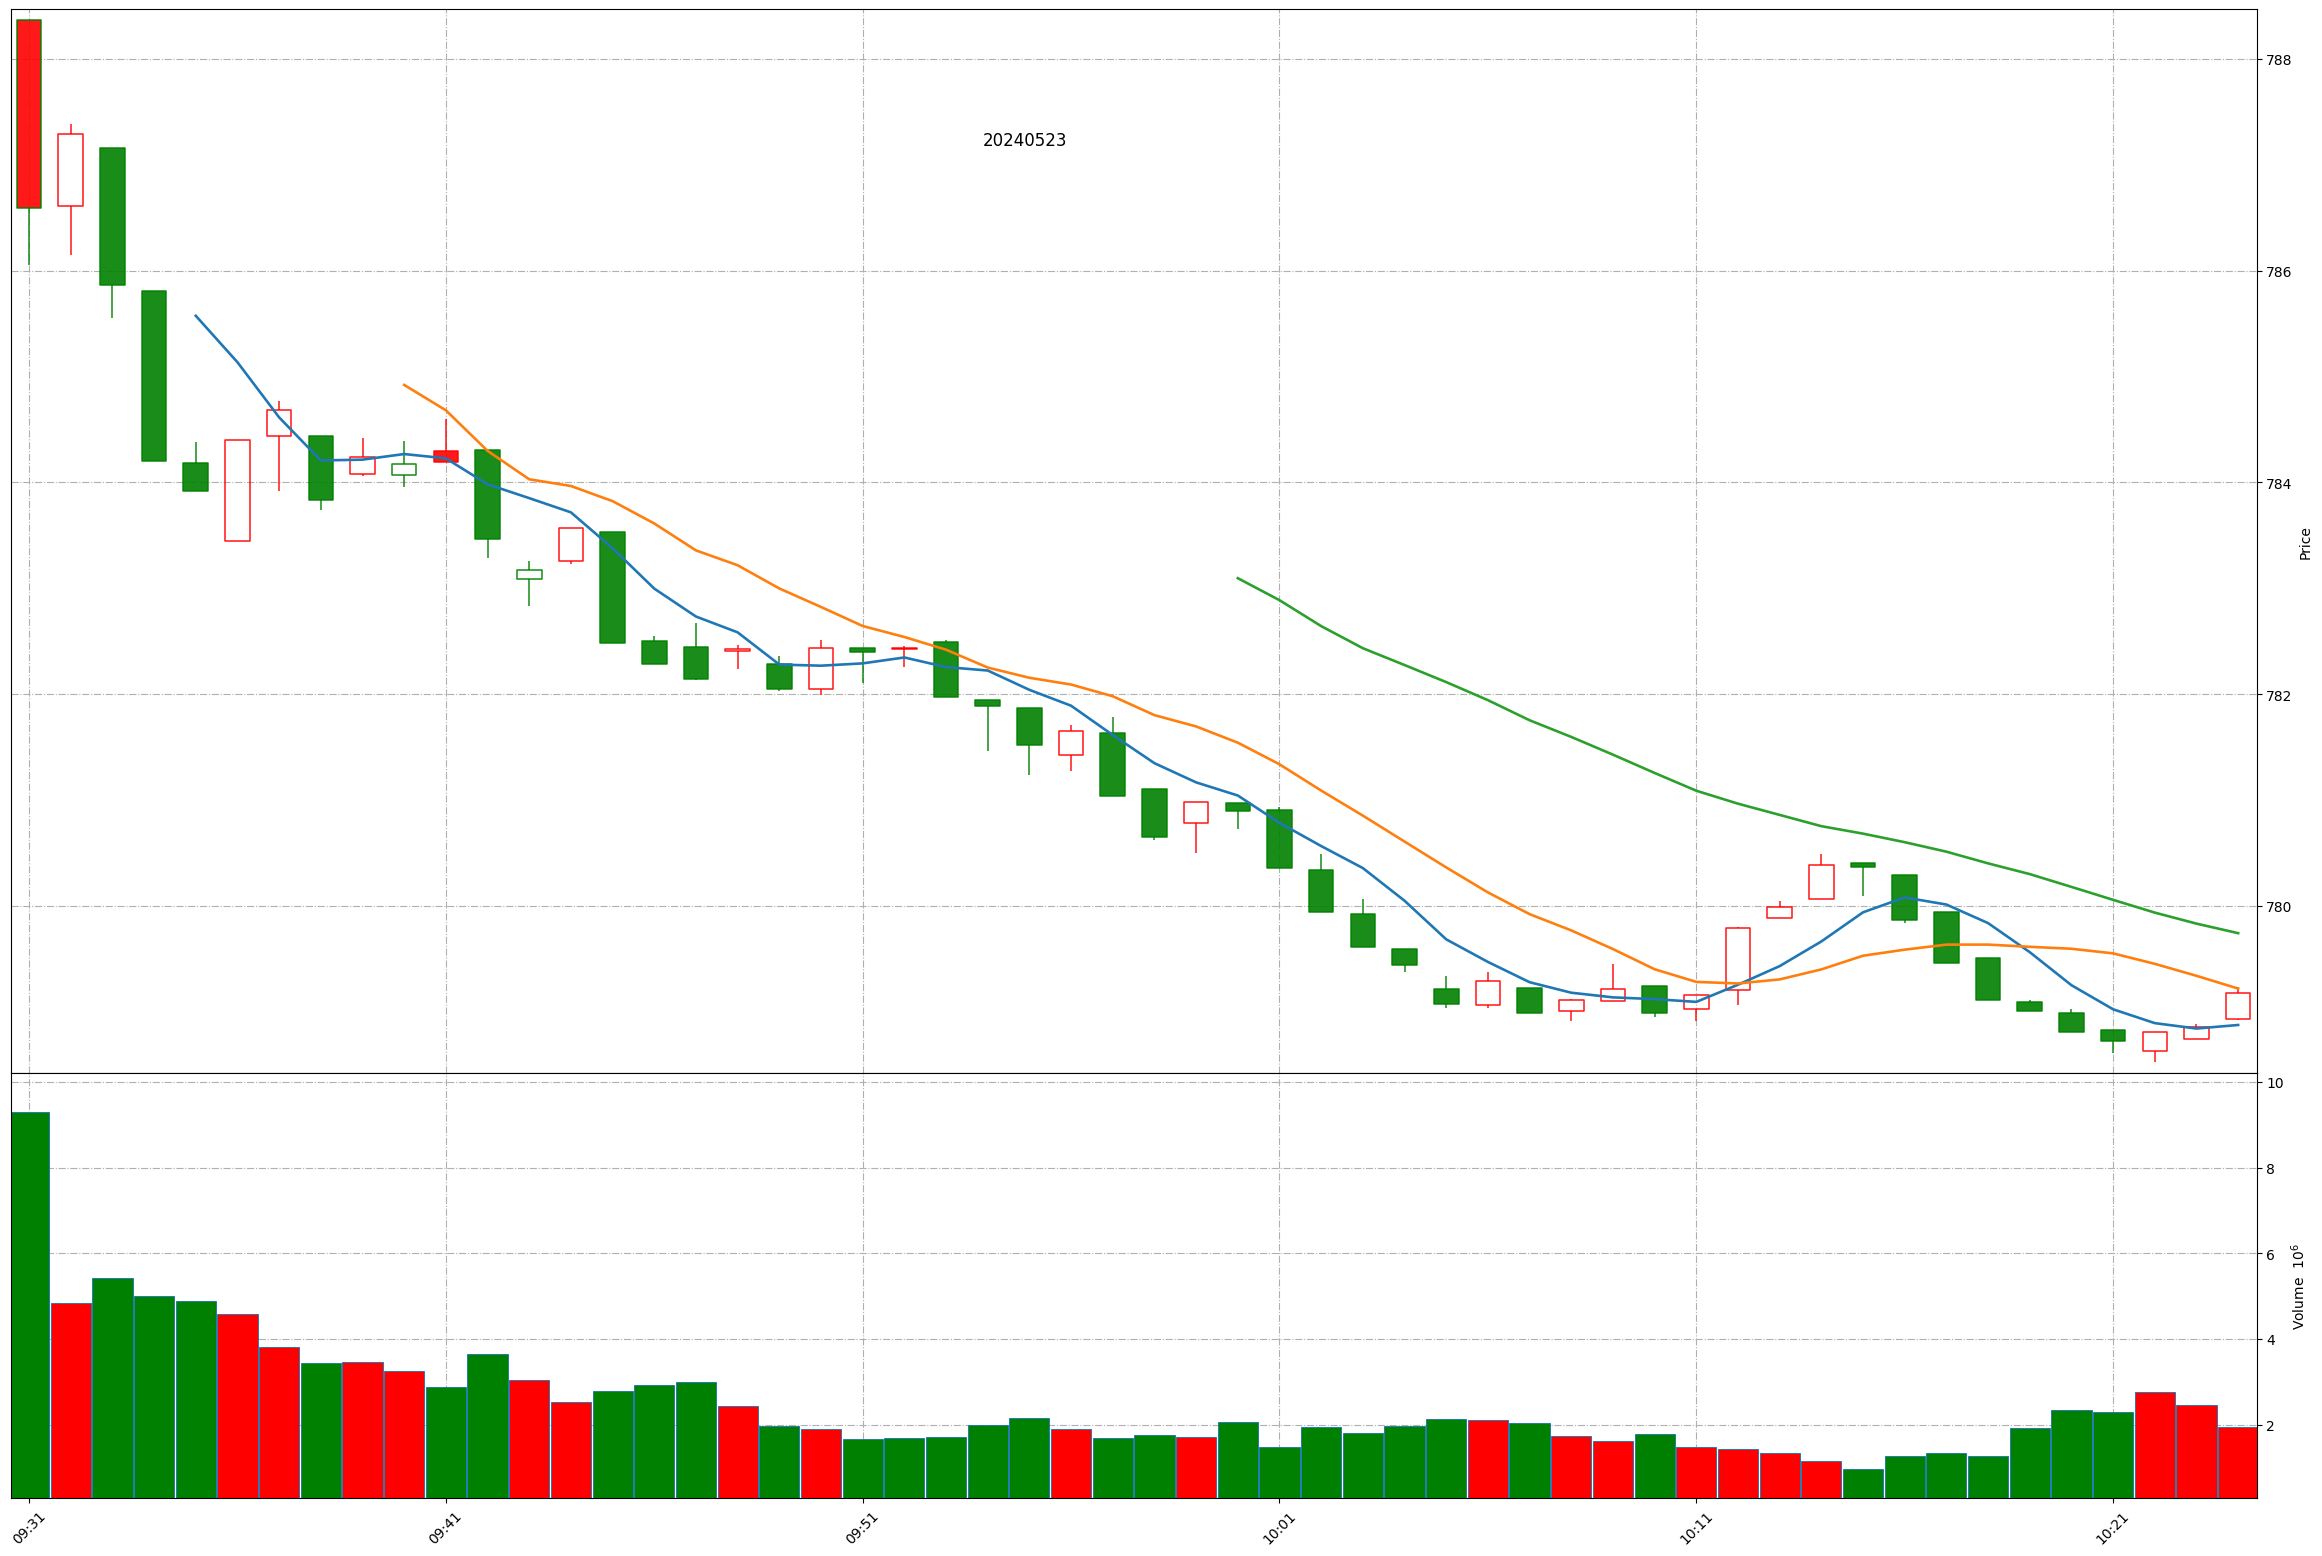
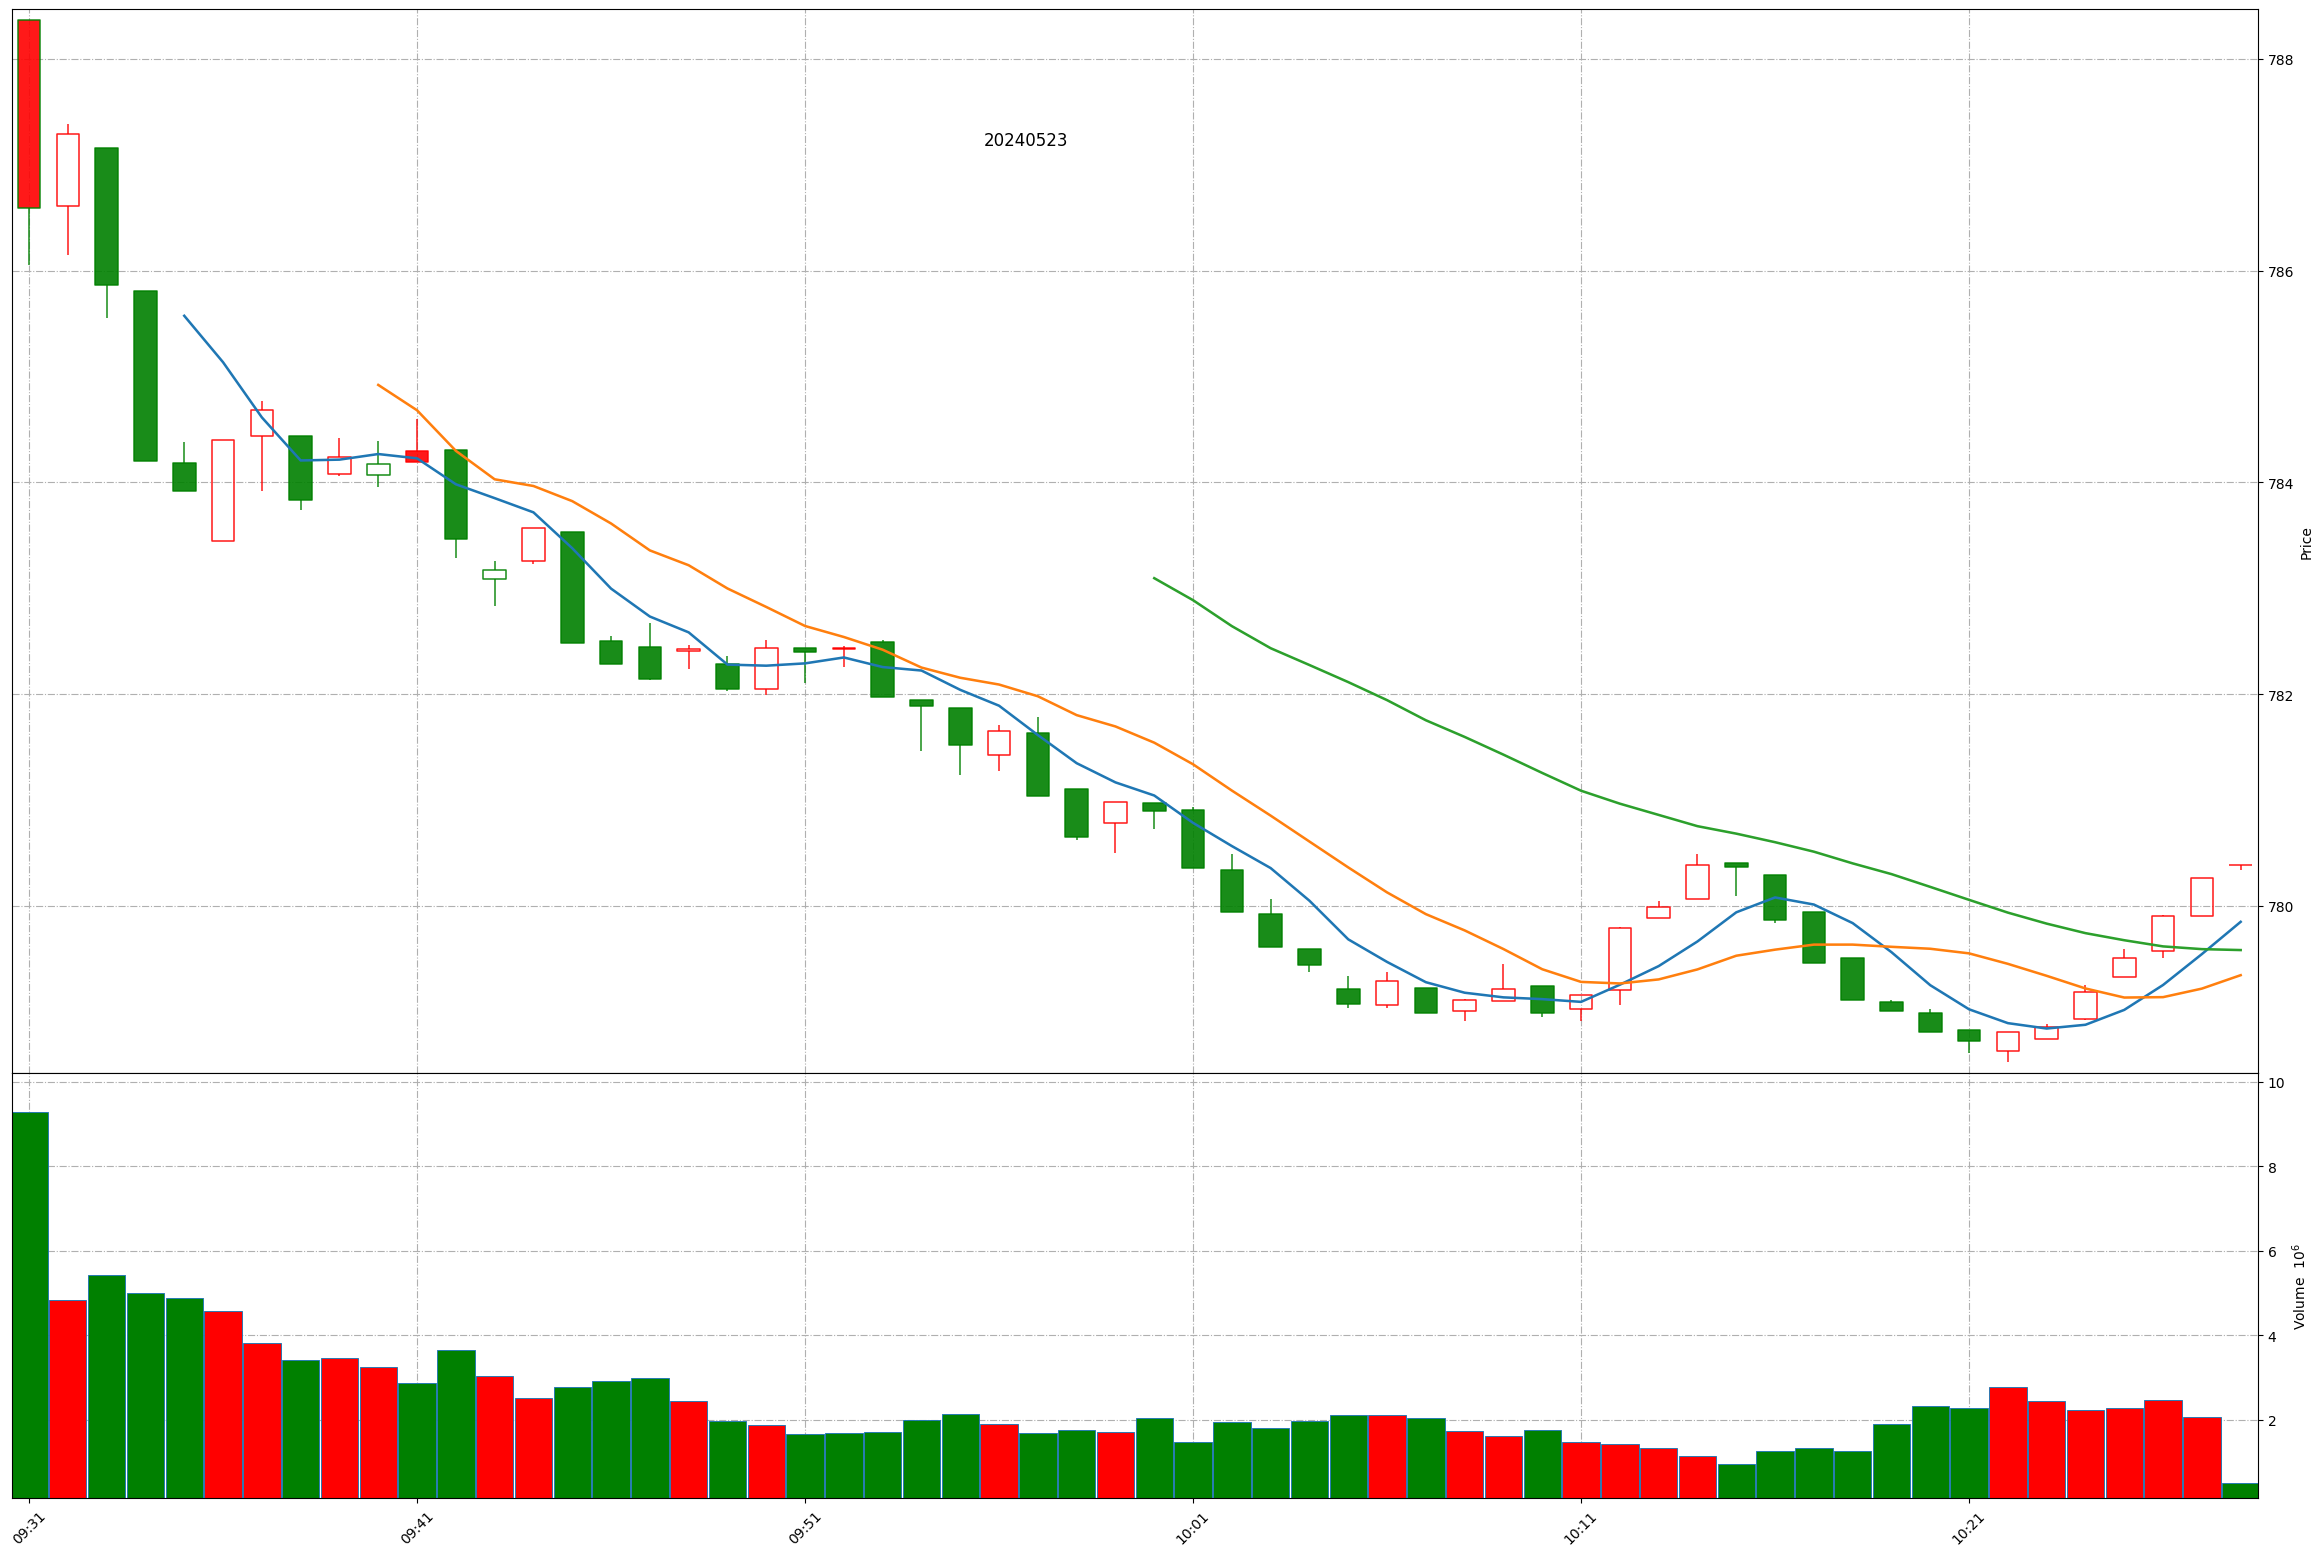
Github action update at 2024-05-23 10:27:25.

Changed region(s): [[0.0, 0.0308, 0.9612, 0.6787], [0.031, 0.8021, 0.9922, 0.9871], [0.4961, 0.3702, 0.5271, 0.401]]

diff --git a/README.md b/README.md
@@ -1,11 +1,11 @@
 
 # Daily-A-share-market-quotes 每日 A 股指数（5min 更新）- 20240523
 
-### 上证指数 20240523 10:23
+### 上证指数 20240523 10:27
 ![](./fig/2024/5/20240523-sh000001.png)
 
-### 深证成指 20240523 10:23
+### 深证成指 20240523 10:27
 ![](./fig/2024/5/20240523-sz399001.png)
 
-### 北证50 20240523 10:23
+### 北证50 20240523 10:27
 ![](./fig/2024/5/20240523-bj899050.png)
